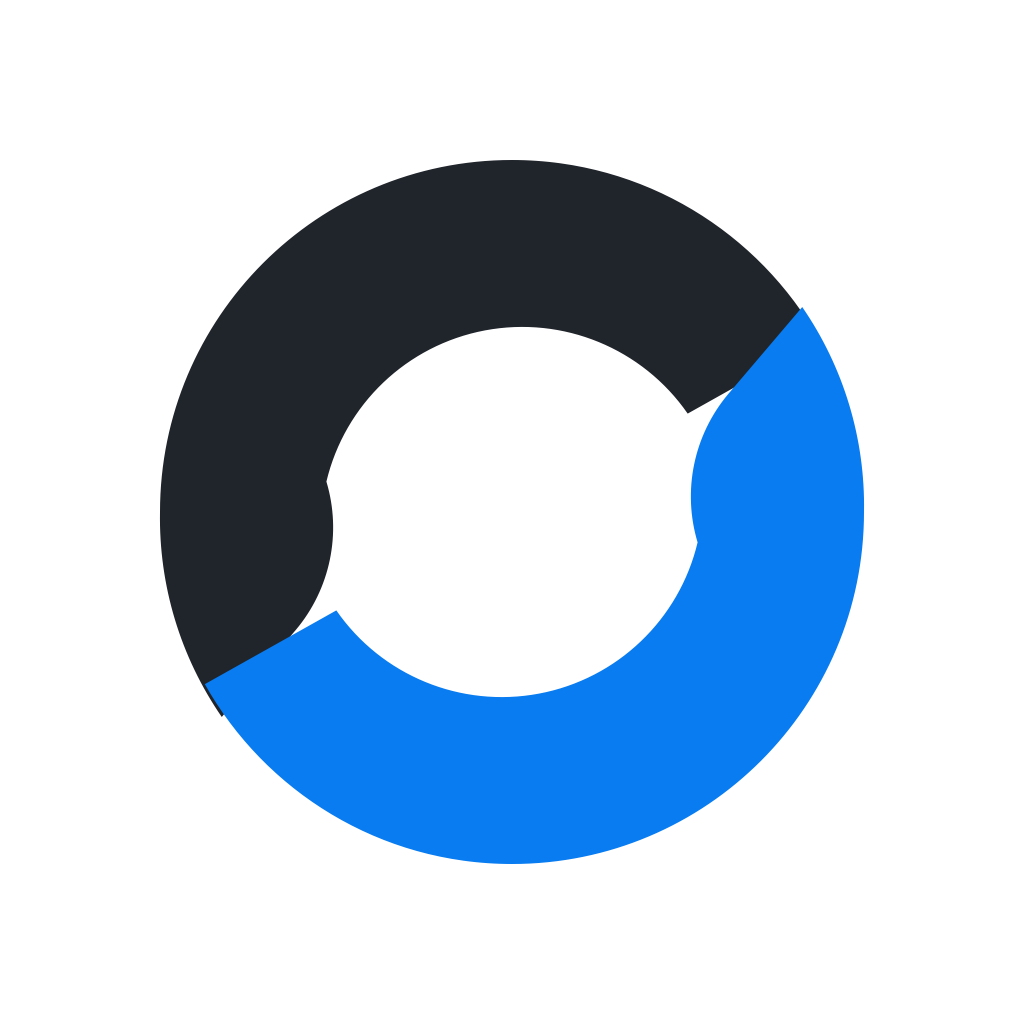
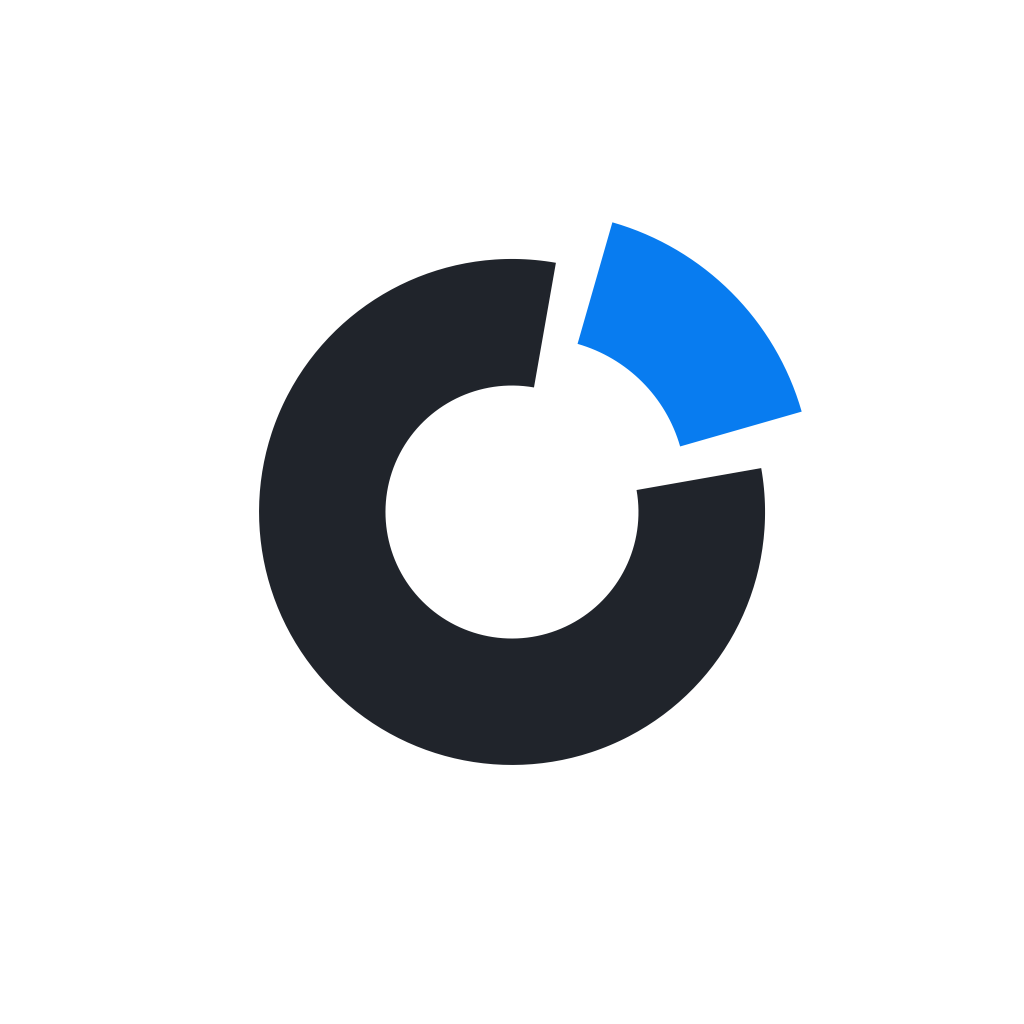
fix(desktop): sign with entitlements, and a mark that says what the app does
Two unrelated things the signing work surfaced.

Hardened runtime with no entitlements produces a window that opens, reports
valid bounds to the window server, and draws nothing. WebKit cannot allocate
executable memory for JavaScriptCore under `--options runtime`, the content
process is killed, and the webview never composites — the app reads as having
vanished. `codesign -d --entitlements` on the shipped bundle returned empty
while `flags=0x10000(runtime)` was set, which is the whole story in two lines.

`app/Desktop/Entitlements.plist` carries the five keys a Craft window and three
compiled Bun binaries need. It has no XML comments: AMFI's unserializer is
stricter than `plutil -lint` and rejects them outright, reporting "syntax error
near line 12" at a comment plutil had just called valid. The rationale lives in
the build script instead.

The mark was two abstract crescents that said nothing about disks or cleaning.
It is now the app's own signature shape — a usage ring with a wedge lifted out
of it, which reads as both "this is where the space went" and "this is space
coming back". Checked at 16px, where the ring holds and the wedge stays visible;
the app icon and all 22 generated sizes derive from the same geometry.

Also drops the disk chart's mouseout handler. Clearing the inspector when the
pointer left a segment made its own buttons unreachable: they sit on the far
side of the window, so the trip to click Reveal in Finder emptied the panel
[…]

Changed region(s): [[0.1562, 0.1562, 0.8438, 0.8438]]

diff --git a/scripts/build-desktop-app.ts b/scripts/build-desktop-app.ts
@@ -206,23 +206,39 @@ function sealSignedBundle(imagePath: string): void {
         fs.renameSync(source, path.join(metadataDir, name))
     }
 
-    for (const name of ['system-cleaner-scan', 'craft-runtime', 'system-cleaner-agent', APP_NAME]) {
-      run('codesign', [
-        '--force',
-        '--options', 'runtime',
-        '--timestamp',
-        '--sign', identity,
-        path.join(macosDir, name),
-      ])
-    }
+    // Hardened runtime with no entitlements produces a window that opens,
+    // reports valid bounds, and draws nothing: WebKit cannot allocate
+    // executable memory for JavaScriptCore, the content process is killed, and
+    // the webview never composites. The app looked like it had vanished.
+    //
+    // `app/Desktop/Entitlements.plist` carries the minimum that a Craft window
+    // and three compiled Bun binaries need under `--options runtime`:
+    //
+    //   allow-jit                        JavaScriptCore, in the webview and in Bun
+    //   allow-unsigned-executable-memory  Bun maps pages it writes to
+    //   disable-library-validation        the launcher spawns sibling binaries
+    //   allow-dyld-environment-variables  the launcher passes SYSTEM_CLEANER_* through
+    //   automation.apple-events           "Move to Trash" drives Finder
+    //
+    // The file carries no XML comments: AMFI's unserializer is stricter than
+    // `plutil -lint` and rejects them outright — "syntax error near line 12",
+    // pointing at a comment plutil had just called valid.
+    const entitlements = path.join(ROOT, 'app/Desktop/Entitlements.plist')
+    if (!fs.existsSync(entitlements))
+      throw new Error(`Signing needs ${entitlements}`)
 
-    run('codesign', [
+    const signArgs = [
       '--force',
       '--options', 'runtime',
+      '--entitlements', entitlements,
       '--timestamp',
       '--sign', identity,
-      appBundle,
-    ])
+    ]
+
+    for (const name of ['system-cleaner-scan', 'craft-runtime', 'system-cleaner-agent', APP_NAME])
+      run('codesign', [...signArgs, path.join(macosDir, name)])
+
+    run('codesign', [...signArgs, appBundle])
     run('codesign', ['--verify', '--deep', '--strict', '--verbose=2', appBundle])
 
     fs.symlinkSync('/Applications', path.join(imageRoot, 'Applications'))

diff --git a/public/disk-panel.js b/public/disk-panel.js
@@ -197,13 +197,17 @@
         if (s) { window.__diskHovered = s; patchDiskScope({ hovered: s }); }
       }
     });
-    diskLayout.addEventListener('mouseout', function(e) {
-      var seg = e.target.closest('.segment');
-      if (seg && (!e.relatedTarget || !e.relatedTarget.closest || !e.relatedTarget.closest('.segment'))) {
-        window.__diskHovered = null;
-        patchDiskScope({ hovered: null });
-      }
-    });
+    // Deliberately no mouseout handler.
+    //
+    // Clearing on mouseout made the inspector's own buttons unreachable: they
+    // live on the far side of the window, so the trip to click Reveal in Finder
+    // leaves the segment, empties the panel, and the click lands on nothing.
+    // Every press of that button did exactly nothing, which is not a thing a
+    // user can be expected to diagnose.
+    //
+    // The inspector now holds the last segment until another is hovered. That
+    // is also what a details pane is for — you look away from the chart to read
+    // it, and it should still be there when you do.
     // Right-click acts on whatever is under the pointer, the way a Finder
     // window does — not on whatever happened to be selected last.
     diskLayout.addEventListener('contextmenu', function(e) {
